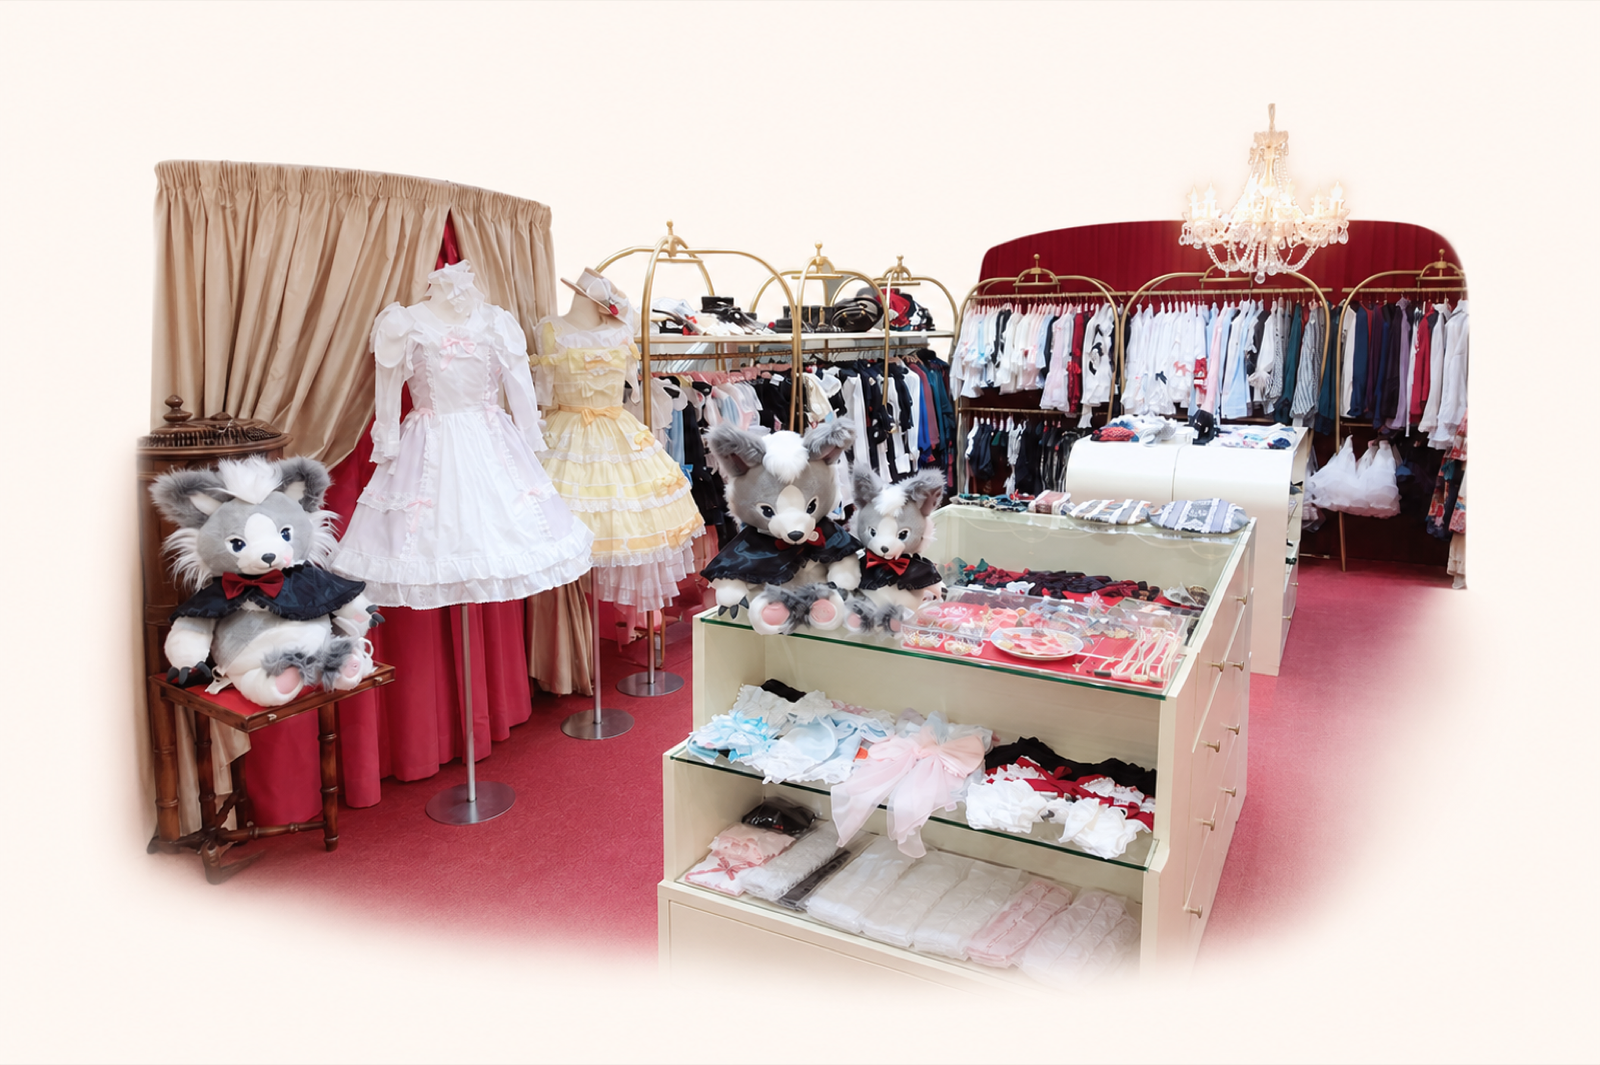
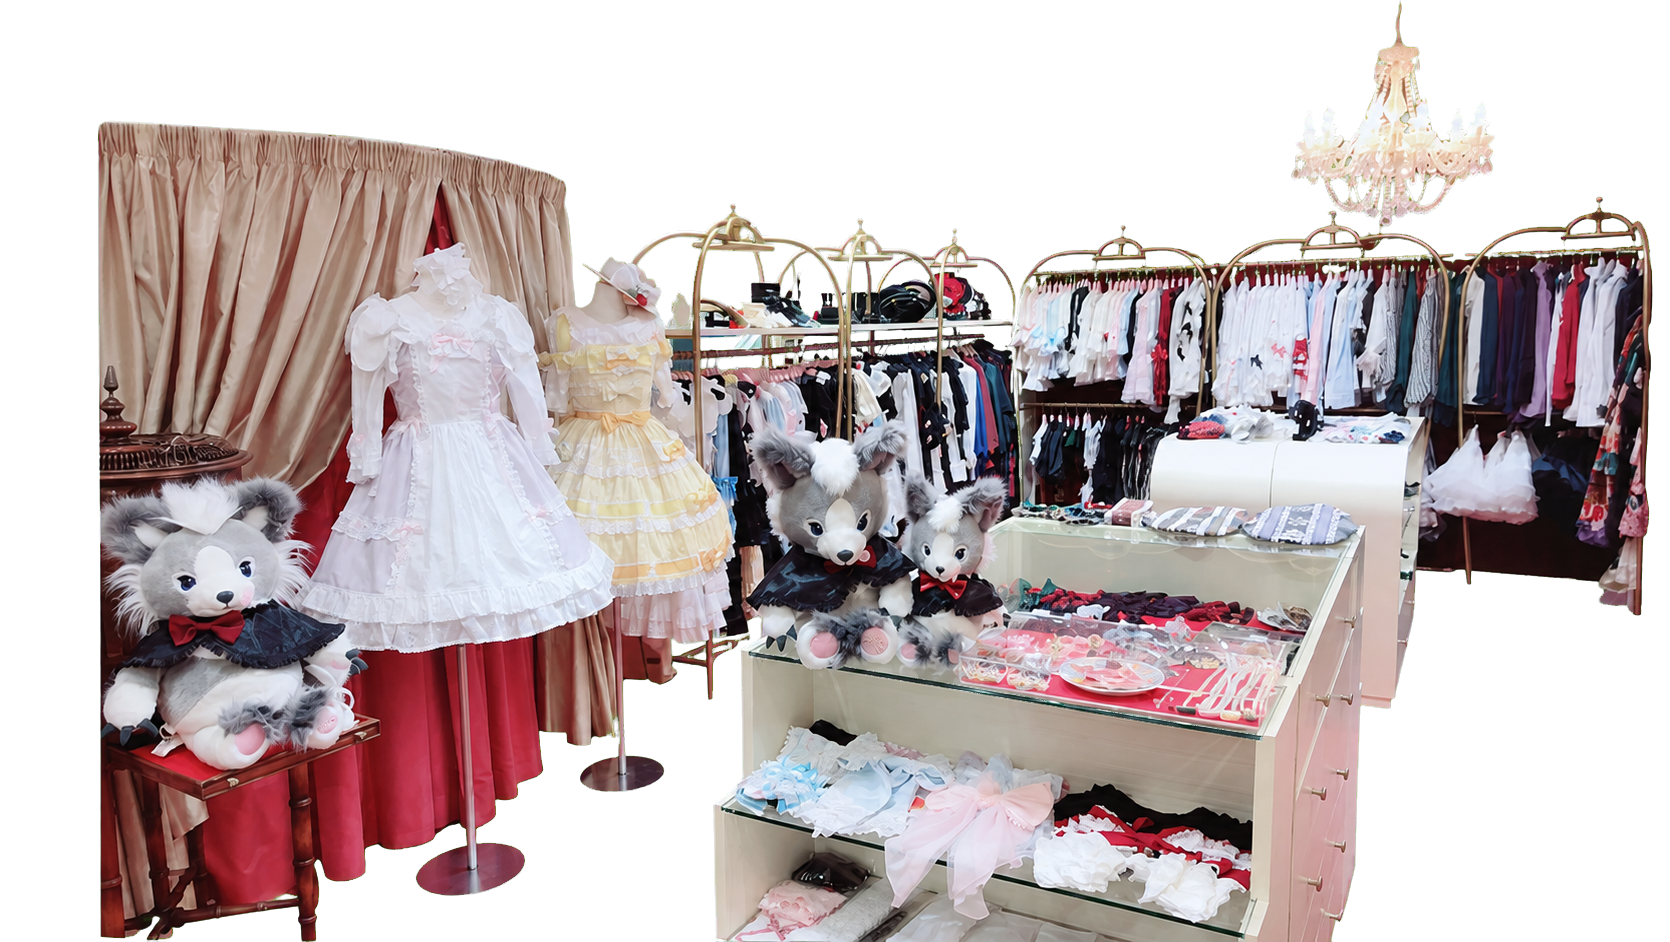
feat(TimeHall): add pet manager entry and update storefront assets
1. 新增萌宠管家功能入口到总资产卡片
2. 更新6家品牌门店的展示图片资源
3. 重构门店图片加载逻辑，支持在线品牌无本地图
4. 优化门店名称和按钮文本的排版适配
5. 新增门店图片alpha通道校验测试

diff --git a/ItemManager/Views/TimeHall/TimeHallView.swift b/ItemManager/Views/TimeHall/TimeHallView.swift
@@ -141,7 +141,7 @@ private enum TimeHallStoreTheme: String, CaseIterable, Identifiable {
     }
   }
 
-  var assetName: String {
+  var storeImageName: String? {
     switch self {
     case .omotesando: return "time_hall_store_omotesando"
     case .nagoya: return "time_hall_store_nagoya"
@@ -152,8 +152,7 @@ private enum TimeHallStoreTheme: String, CaseIterable, Identifiable {
     case .babyHonten: return "store-baby-honten.png"
     case .babyOsaka: return "store-baby-osaka.png"
     case .babyYokohama: return "store-baby-yokohama.png"
-    case .julietteOnline: return "brand-juliette-hero.jpg"
-    case .wunderweltOnline: return "brand-wunderwelt-fleur-hero.png"
+    case .julietteOnline, .wunderweltOnline: return nil
     }
   }
 
@@ -1015,6 +1014,9 @@ struct TimeHallView: View {
           Text(merchant.name)
             .font(.system(compact ? .title2 : .title, design: .serif).weight(.bold))
             .foregroundStyle(palette.primaryText)
+            .lineLimit(1)
+            .minimumScaleFactor(0.5)
+            .multilineTextAlignment(.center)
           Text(theme.title)
             .font(.caption.weight(.semibold))
             .foregroundStyle(theme.accent)
@@ -1037,8 +1039,11 @@ struct TimeHallView: View {
           activeMerchant = merchant
         } label: {
           Label("进入 \(merchant.name)", systemImage: "arrow.right.circle.fill")
-          .frame(maxWidth: .infinity)
-          .padding(.vertical, 4)
+            .lineLimit(2)
+            .minimumScaleFactor(0.72)
+            .multilineTextAlignment(.center)
+            .frame(maxWidth: .infinity)
+            .padding(.vertical, 4)
         }
         .buttonStyle(.borderedProminent)
         .buttonBorderShape(.capsule)
@@ -1068,10 +1073,16 @@ struct TimeHallView: View {
 
   @ViewBuilder
   private func storefrontImage(_ theme: TimeHallStoreTheme) -> some View {
-    if theme.merchant == .pinkHouse {
-      Image(theme.assetName).resizable()
+    if let storeImageName = theme.storeImageName {
+      if theme.merchant == .pinkHouse {
+        Image(storeImageName).resizable()
+      } else {
+        TimeHallBundleImage(fileName: storeImageName, placeholderSystemImage: "storefront")
+      }
+    } else if let coverImage = theme.merchant.coverImage {
+      TimeHallBundleImage(fileName: coverImage, placeholderSystemImage: "storefront")
     } else {
-      TimeHallBundleImage(fileName: theme.assetName, placeholderSystemImage: "storefront")
+      TimeHallBundleImage(fileName: nil, placeholderSystemImage: "storefront")
     }
   }
 

diff --git a/ItemManager/Views/DepositPlan/DepositPlanComponents.swift b/ItemManager/Views/DepositPlan/DepositPlanComponents.swift
@@ -60,7 +60,7 @@ struct TotalBalanceCard: View {
     
     var body: some View {
         VStack(spacing: 0) {
-            // 三个功能入口（放在最上方）
+            // 功能入口（放在最上方）
             HStack(spacing: 0) {
                 // 梦裙日历
                 Button {
@@ -78,6 +78,25 @@ struct TotalBalanceCard: View {
                 }
                 .buttonStyle(.plain)
                 
+                Divider()
+                    .frame(height: 30)
+
+                // 萌宠管家
+                Button {
+                    tabNavigationManager.navigate(to: .petChat)
+                } label: {
+                    VStack(spacing: 4) {
+                        ThemeSkinIconBadge(systemName: "pawprint.fill", fallbackColor: Color(hex: "FF7F50"), size: 30, symbolSize: 14)
+                        Text("萌宠管家".appLocalized)
+                            .font(.caption)
+                            .themeSkinLegibleText(level: .inline, slot: .sectionCard)
+                    }
+                    .foregroundStyle(Color(hex: "FF7F50"))
+                    .frame(maxWidth: .infinity)
+                    .padding(.vertical, 8)
+                }
+                .buttonStyle(.plain)
+
                 Divider()
                     .frame(height: 30)
                 

diff --git a/ItemManagerTests/TimeHallCatalogValidationTests.swift b/ItemManagerTests/TimeHallCatalogValidationTests.swift
@@ -1,5 +1,6 @@
 import CryptoKit
 import XCTest
+import UIKit
 
 @testable import ItemManager
 
@@ -70,7 +71,13 @@ final class TimeHallCatalogValidationTests: XCTestCase {
       "store-baby-osaka.png",
       "store-baby-yokohama.png",
     ] {
-      XCTAssertNotNil(imageURL(named: imageName), "Missing storefront image: \(imageName)")
+      let url = imageURL(named: imageName)
+      XCTAssertNotNil(url, "Missing storefront image: \(imageName)")
+      let alphaInfo = url.flatMap { UIImage(contentsOfFile: $0.path)?.cgImage?.alphaInfo }
+      XCTAssertTrue(
+        [.first, .last, .premultipliedFirst, .premultipliedLast].contains(alphaInfo),
+        "Storefront image must contain alpha: \(imageName)"
+      )
     }
   }
 

diff --git a/docs/TIME_HALL_STORE_THEME_SOURCES.md b/docs/TIME_HALL_STORE_THEME_SOURCES.md
@@ -9,3 +9,18 @@
 | 鹿儿岛山形屋 | [PINK HOUSE 官方焕新公告](https://pinkhouse-webshop.jp/pinkhouse/news/776) | [官方店内图](https://pinkhouse-webshop.jp/photo/news/open1.jpg) | 深木陈列、暖白灯光与开敞入口 |
 
 抠图由内置图像编辑流程基于上述原图生成，再以纯色键控移除背景。素材只保留在 `ItemManager/Assets.xcassets/TimeHallStoreSkins/`，没有替换或删除既有图片。
+
+## 品牌档案代表门店
+
+以下素材只用于“选择品牌”页。Angelic Pretty 东京/大阪的当前门店页不再内嵌原图，处理时使用此前从对应官方页面保存的原始 JPEG；其余四张可由官方页面直接恢复。所有输出均只提取原图中的门店/店内主体，不新增门店、招牌、商品、人物或文字。
+
+| 据点 | 官方页面 | 原图 | 输出 |
+|---|---|---|---|
+| Angelic Pretty 东京 | [原宿店](https://angelicpretty.com/Page/shop_harajuku.aspx) | 官方页面此前公开的店内原图（984×505，本地留存） | `store-angelic-pretty-tokyo.png` |
+| Angelic Pretty 大阪 | [大阪店](https://angelicpretty.com/Page/shop_osaka.aspx) | 官方页面此前公开的门头原图（333×250，本地留存；确定性前景分割） | `store-angelic-pretty-osaka.png` |
+| Angelic Pretty 巴黎 | [巴黎店](https://angelicpretty-paris.com/gb/page/7-the-angelic-pretty-paris-shop) | [官方门头原图](https://angelicpretty-paris.com/img/cms/000/Others/DSC01011%20copie%202.jpg) | `store-angelic-pretty-paris.png` |
+| BABY 原宿本店 | [本店](https://www.babyssb.co.jp/locations/honten/) | [官方店内原图](https://www.babyssb.co.jp/wp-content/uploads/2021/11/shoplist_honten_photo.jpg) | `store-baby-honten.png` |
+| BABY 大阪 | [大阪店](https://www.babyssb.co.jp/locations/osaka/) | [官方店内原图](https://www.babyssb.co.jp/wp-content/uploads/2021/11/shoplist_oosaka_photo.jpg) | `store-baby-osaka.png` |
+| BABY 横滨 | [横滨店](https://www.babyssb.co.jp/locations/yokohama_baby/) | [官方店内原图](https://www.babyssb.co.jp/wp-content/uploads/2021/12/shoplist_yokohama_photo.jpg) | `store-baby-yokohama.png` |
+
+输出目录：`ItemManager/Resources/TimeHall/images/`。除大阪低分辨率原图采用本地确定性前景分割外，其余五张使用内置图像编辑生成纯色键背景，再通过固定色键脚本输出透明 PNG。
